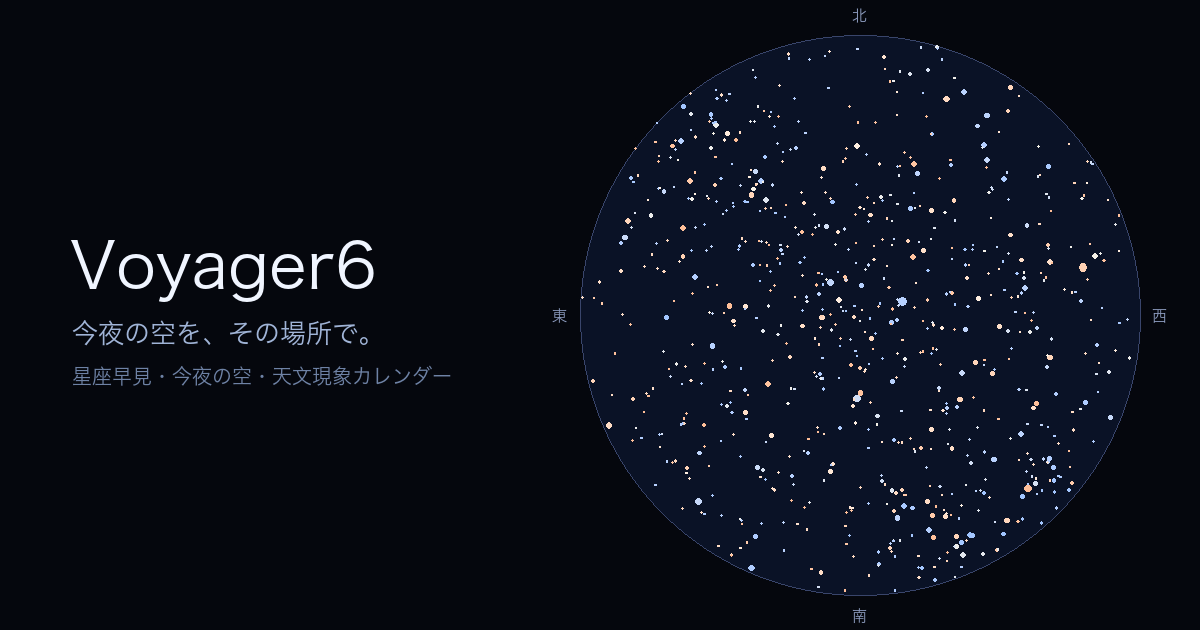
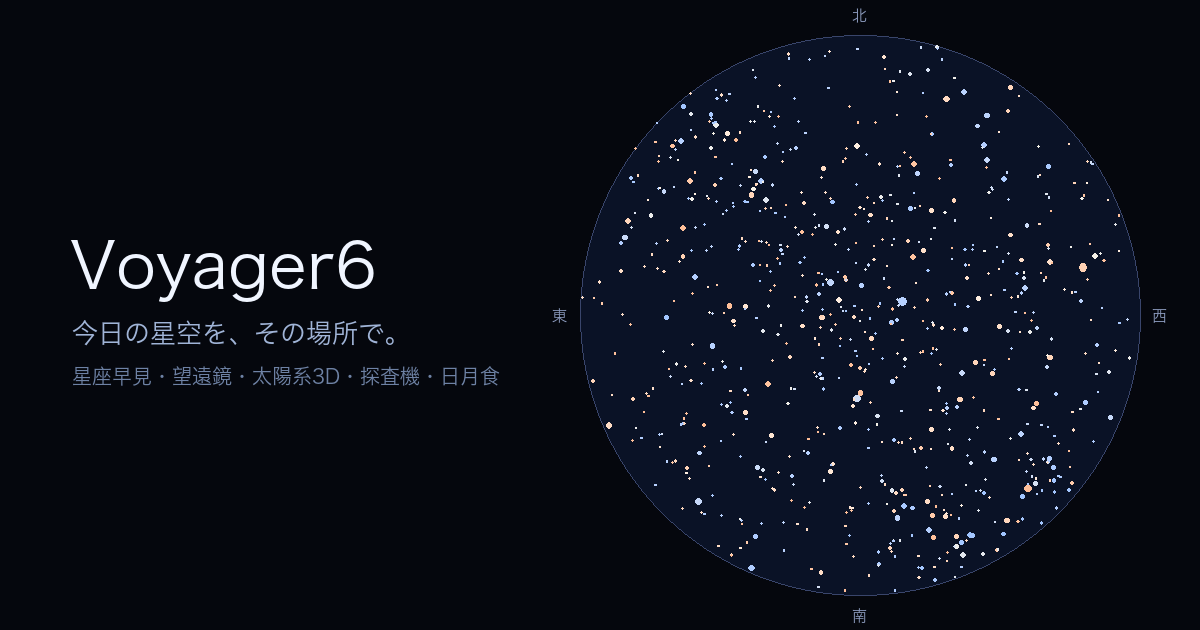
og.png を再生成し、文言をサイトの顔に揃える
- 副題は 1.1-d で更新済みの「星座早見・望遠鏡・太陽系3D・探査機・日月食」
- キャッチを「今夜の空を、その場所で。」→「**今日の星空**を、その場所で。」に。
  <title> と h1 が「今日の星空」になったので、SNS に貼られたときの言葉を揃える
- **絵 (盤面) は作り直していない**。指示書どおり、食い違いは文言だけなので文言だけ直した
- 幅は実測 (終端 410px・盤面の左端は 580px) で確認。favicon.svg は中身に変化なし

Claude-Session: https://claude.ai/code/session_01TLim8GuopRbiKRwuEC6MAR

Changed region(s): [[0.1233, 0.573, 0.4317, 0.6333], [0.0617, 0.5127, 0.3392, 0.5429]]

diff --git a/tools/build_og.py b/tools/build_og.py
@@ -119,7 +119,8 @@ def main() -> int:
 
     # タイトル
     dr.text((70, 232), "Voyager6", font=load_font(64), fill=(240, 245, 255))
-    dr.text((72, 320), "今夜の空を、その場所で。", font=load_font(26), fill=(160, 180, 215))
+    # 見出し語はサイトの顔 (<title>・h1) と同じ「今日の星空」に揃える (Ver.1.1)
+    dr.text((72, 320), "今日の星空を、その場所で。", font=load_font(26), fill=(160, 180, 215))
     # 文言はサイトの現状に合わせる (Ver.1.0)。**盤面に食い込ませないこと** —
     # 円の左端は cx-R = 580px なので、x=72 から描いて終端が 560 を超えたら入らない。
     # 20px の日本語は1文字20pxなので、全角22文字ぶんが上限の目安。
